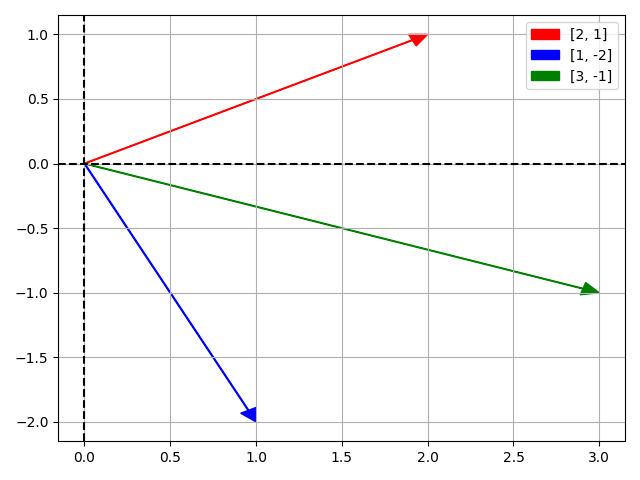
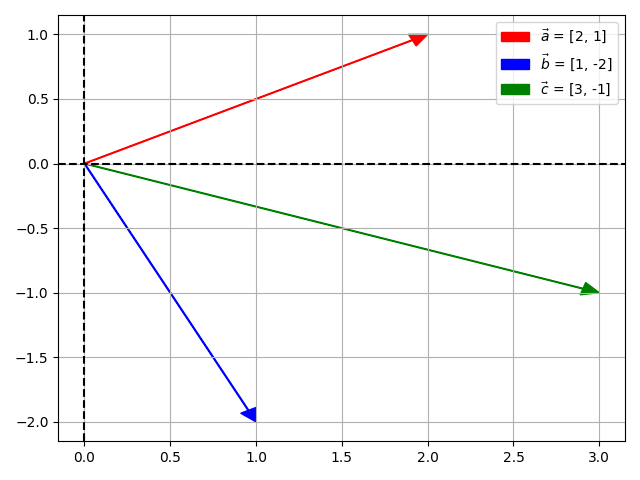
updates

Changed region(s): [[0.7812, 0.0312, 0.9688, 0.2188]]

diff --git a/docs/mathematics/linear-algebra/geometry-of-linear-equations/graph_generation.py b/docs/mathematics/linear-algebra/geometry-of-linear-equations/graph_generation.py
@@ -22,9 +22,9 @@ if 'row_picture' in arg:
     plt.show()
 
 if 'column_picture' in arg:
-    plt.arrow(0, 0, 2, 1, width=0.005, head_width=0.1, head_length=0.1, length_includes_head=True, color='red', label='[2, 1]')
-    plt.arrow(0, 0, 1, -2, width=0.005, head_width=0.1, head_length=0.1, length_includes_head=True, color='blue', label='[1, -2]')
-    plt.arrow(0, 0, 3, -1, width=0.005, head_width=0.1, head_length=0.1, length_includes_head=True, color='green', label='[3, -1]')
+    plt.arrow(0, 0, 2, 1, width=0.005, head_width=0.1, head_length=0.1, length_includes_head=True, color='red', label='$\\vec a$ = [2, 1]')
+    plt.arrow(0, 0, 1, -2, width=0.005, head_width=0.1, head_length=0.1, length_includes_head=True, color='blue', label='$\\vec b$ = [1, -2]')
+    plt.arrow(0, 0, 3, -1, width=0.005, head_width=0.1, head_length=0.1, length_includes_head=True, color='green', label='$\\vec c$ = [3, -1]')
     plt.tight_layout()
     plt.grid(visible=True)
     plt.axhline(y=0, color='k', ls='dashed')

diff --git a/docs/mathematics/linear-algebra/geometry-of-linear-equations/README.md b/docs/mathematics/linear-algebra/geometry-of-linear-equations/README.md
@@ -38,12 +38,22 @@ Note that here, $x$ and $y$ are two separate variables representing two separate
 
 $\begin{bmatrix} a_1 \newline a_2 \end{bmatrix} x + \begin{bmatrix} b_1 \newline b_2 \end{bmatrix} y = \begin{bmatrix} c_1 \newline c_2 \end{bmatrix}$
 
-Putting $\vec{a} = \begin{bmatrix} a_1 \newline a_2 \end{bmatrix}$, $\vec{b} = \begin{bmatrix} b_1 \newline b_2 \end{bmatrix}$ and $\vec{c} = \begin{bmatrix} c_1 \newline c_2 \end{bmatrix}$:
+Putting $\vec{a} = \begin{bmatrix} a_1 \newline a_2 \end{bmatrix}$, $\vec{b} = \begin{bmatrix} b_1 \newline b_2 \end{bmatrix}$ and $\vec{c} = \begin{bmatrix} c_1 \newline c_2 \end{bmatrix}$, we get:
 
 $\vec{a} x + \vec{b} y = \vec{c}$
 
 # Visualisation
-Hence, we get two ways of visualising this system:
+For visualisation, consider the following system:
+
+$2x + y = 3$
+
+$x - 2y = -1$
+
+Hence, we get $\vec{a} = \begin{bmatrix} 2 \newline 1 \end{bmatrix}$, $\vec{b} = \begin{bmatrix} 1 \newline -2 \end{bmatrix}$ and $\vec{c} = \begin{bmatrix} 3 \newline -1 \end{bmatrix}$.
+
+---
+
+We can recognise two ways of visualising this system:
 
 ## 1. Row picture
 
